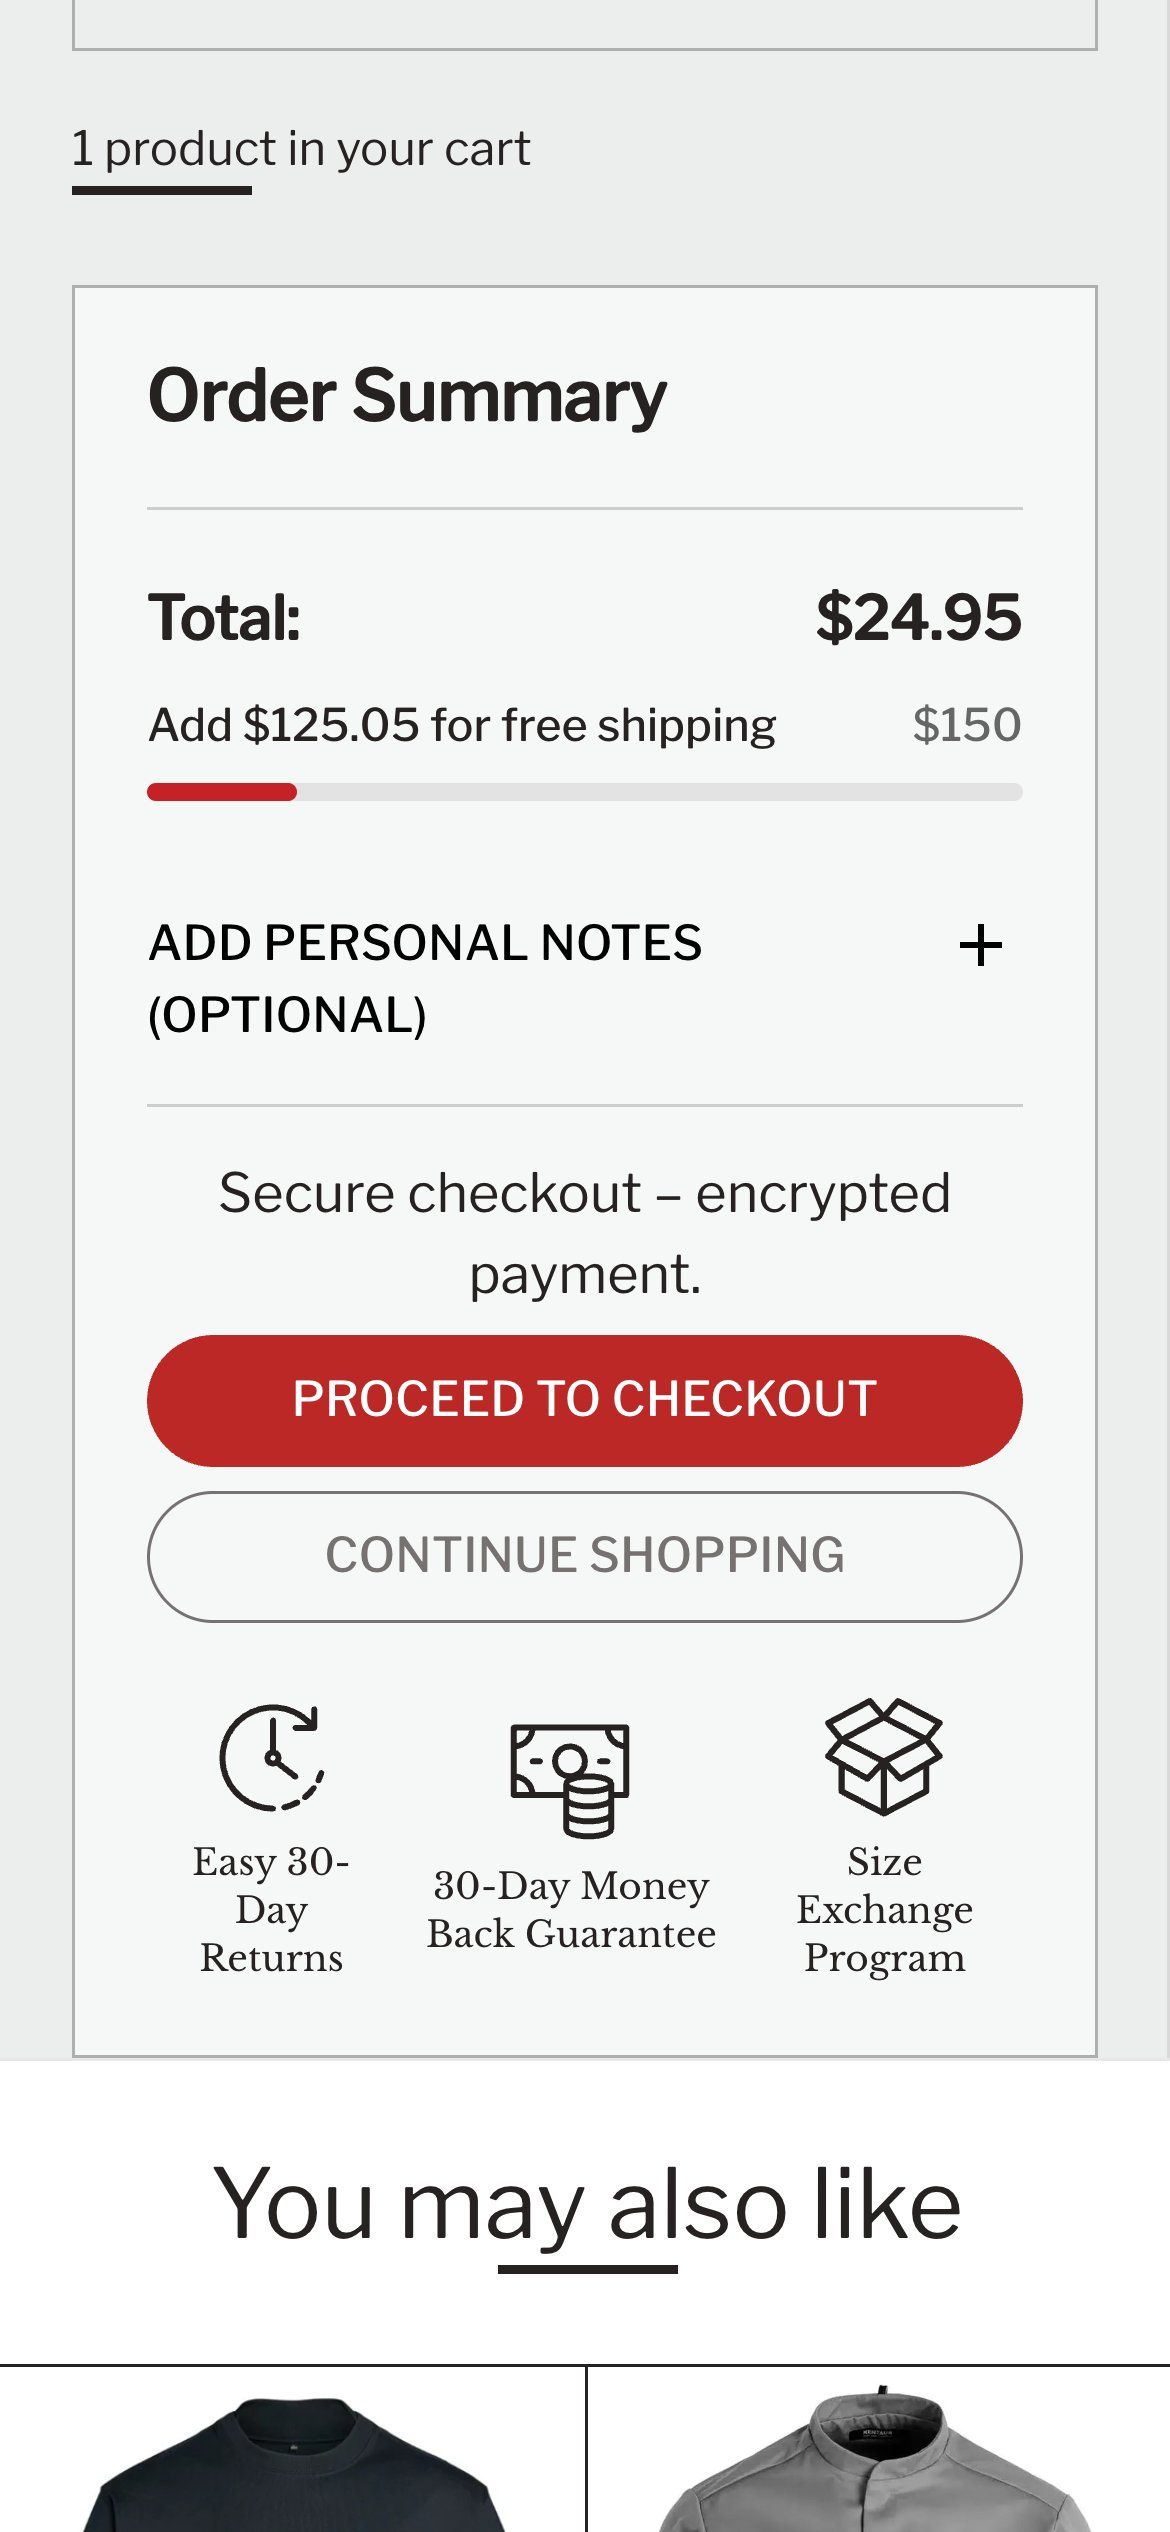
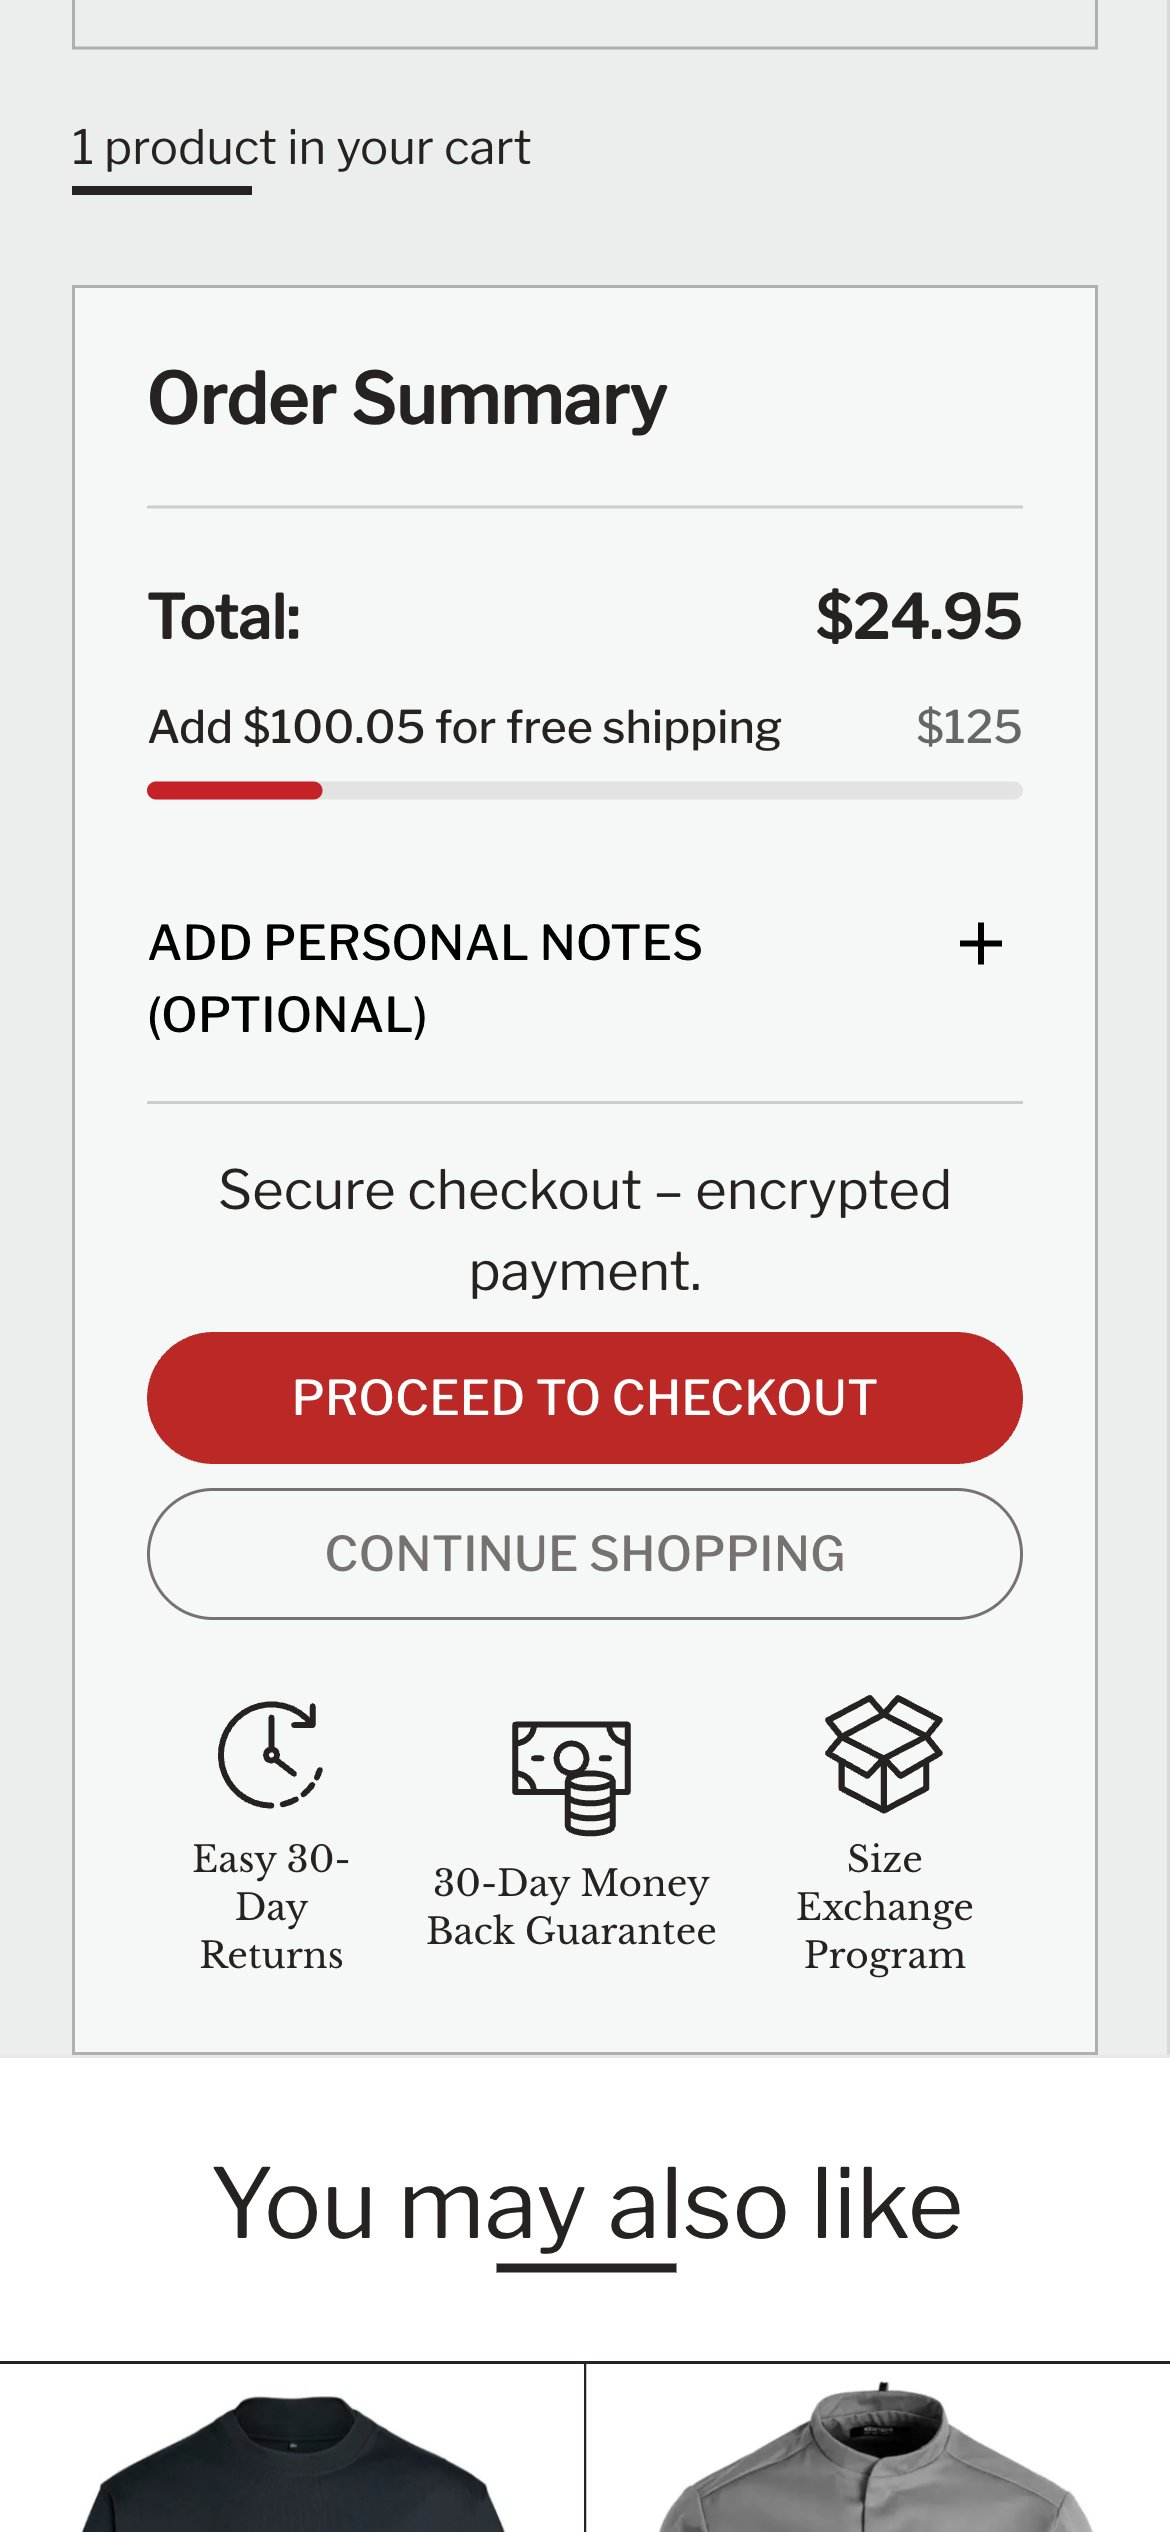
Shipping threshold reasoning, fabric swatch, empty-collection text

diff --git a/index.html b/index.html
@@ -1253,12 +1253,12 @@ a.irow:hover b{text-decoration:underline}
 <section class="slide" id="p-ship"> <img class="silk sm" src="img/silk.png" alt="">
 <div class="shead"><span class="num">06</span><h2><span class="sev imp">Second wave</span>Apparel ships from $10.75, and the cart says nothing about shipping</h2></div>
 <div class="pbody">
-<div class="txt t1"><div class="lbl"><span class="pill">Today</span><svg class="conn" viewBox="0 0 54 12"><path d="M0 6h50M45 1.5 50 6l-5 4.5" fill="none" stroke="#6d6d6d" stroke-width="1.5"/></svg></div><p>Shipping is free only on shoes. For a $24.95 T-shirt the cheapest option at checkout is USPS Ground Advantage at $10.75. The cart shows the total and Proceed to checkout — no shipping line and no free-shipping goal; there is no shipping policy page either.</p><p class="fine-note">Checked live on the U.S. store, iPhone (390×844), 9 Oct 2026. · <a href="https://fiumaraculinary.com/cart" target="_blank" rel="noopener">open the page ↗</a></p></div>
+<div class="txt t1"><div class="lbl"><span class="pill">Today</span><svg class="conn" viewBox="0 0 54 12"><path d="M0 6h50M45 1.5 50 6l-5 4.5" fill="none" stroke="#6d6d6d" stroke-width="1.5"/></svg></div><p>Shipping is free only on shoes. For a $24.95 T-shirt, the cheapest option at checkout is $10.75. The cart does not mention shipping. There is no shipping policy page.</p><p class="fine-note">Checked live on the U.S. store, iPhone (390×844), 9 Oct 2026. · <a href="https://fiumaraculinary.com/cart" target="_blank" rel="noopener">open the page ↗</a></p></div>
 <div class="v1"><div><div class="phone"><div class="screen"><div class="island"></div><div class="sbar"><span>9:41</span><svg viewBox="0 0 24 11"><rect x=".5" y=".5" width="20" height="10" rx="3" fill="none" stroke="#111"/><rect x="2" y="2" width="16" height="7" rx="1.5" fill="#111"/><rect x="21.5" y="3.5" width="1.8" height="4" rx=".9" fill="#111"/></svg></div><div class="view"><img class="shot" src="img/now-ship.jpg" alt=""></div><div class="url"><span>fiumaraculinary.com</span></div></div></div><div class="cap">Today — no shipping line in the cart</div></div></div>
-<div class="txt t2"><div class="lbl"><span class="pill">We propose</span><svg class="conn" viewBox="0 0 54 12"><path d="M0 6h50M45 1.5 50 6l-5 4.5" fill="none" stroke="#6d6d6d" stroke-width="1.5"/></svg></div><p>Set a free-shipping threshold for apparel — $150 in this example — and show the progress in the cart: “Add $125.05 for free shipping”.</p><p>On the right: the same cart with the free-shipping line.</p></div>
+<div class="txt t2"><div class="lbl"><span class="pill">We propose</span><svg class="conn" viewBox="0 0 54 12"><path d="M0 6h50M45 1.5 50 6l-5 4.5" fill="none" stroke="#6d6d6d" stroke-width="1.5"/></svg></div><p>Set free shipping on apparel from $125. Show the progress in the cart: “Add $100.05 for free shipping”.</p><p>Why $125: Happy Chef starts at $95, Chef Works at $99, TILIT and Hedley & Bennett at $150. The middle of these is $124.50. Your median chef coat is $112.45, so one coat is not enough. A coat with an apron or pants is.</p><p>On the right: the same cart with the free-shipping line.</p></div>
 <div class="v2"><div><div class="phone"><div class="screen"><div class="island"></div><div class="sbar"><span>9:41</span><svg viewBox="0 0 24 11"><rect x=".5" y=".5" width="20" height="10" rx="3" fill="none" stroke="#111"/><rect x="2" y="2" width="16" height="7" rx="1.5" fill="#111"/><rect x="21.5" y="3.5" width="1.8" height="4" rx=".9" fill="#111"/></svg></div><div class="view"><img class="shot" src="img/fix-ship.jpg" alt=""></div><div class="url"><span>fiumaraculinary.com</span></div></div></div><div class="cap">The same cart with a free-shipping goal</div></div></div>
 <div class="cardcol"><div class="benefit-top"><span class="pill">Why it pays</span><span class="arrow"><svg width="14" height="16" viewBox="0 0 14 16"><path d="M7 1v13M1.5 8.5 7 14l5.5-5.5" fill="none" stroke="#444" stroke-width="1.6"/></svg></span></div>
-<div class="card"><p>A visible goal turns shipping from a surprise at checkout into a reason to add an apron or a second shirt.</p><div class="stats"><div><b>$10.75</b><span>cheapest shipping on a $24.95 T-shirt</span></div><div><b>4 of 10</b><span>competitors show a free-shipping threshold</span></div></div><p class="comp">Like at <a href="https://www.tilitnyc.com/products/chef-shirt" target="_blank" rel="noopener">TILIT ↗</a> — free shipping over $150 in the bar and on the product page; Fiumara can set its own threshold for apparel.</p></div><div class="ptag"><span>Price</span><b>$60</b><em>3 h &#183; $20/h</em></div></div>
+<div class="card"><p>The shopper sees shipping before checkout. The goal sits just above one coat, so it invites a second item.</p><div class="stats"><div><b>$10.75</b><span>cheapest shipping on a $24.95 T-shirt</span></div><div><b>$124.50</b><span>middle threshold of 4 competitors</span></div></div><p class="comp">Like at <a href="https://www.tilitnyc.com/products/chef-shirt" target="_blank" rel="noopener">TILIT ↗</a> — the $150 goal is in the top bar.</p></div><div class="ptag"><span>Price</span><b>$60</b><em>3 h &#183; $20/h</em></div></div>
 </div></section>
 <section class="slide" id="p-search-empty"> <img class="silk sm" src="img/silk.png" alt="">
 <div class="shead"><span class="num">07</span><h2><span class="sev imp">Second wave</span>A search with no results ends on “Try again with a different keyword”</h2></div>
@@ -1284,12 +1284,12 @@ a.irow:hover b{text-decoration:underline}
 <section class="slide" id="p-swatch"> <img class="silk sm" src="img/silk.png" alt="">
 <div class="shead"><span class="num">09</span><h2><span class="sev low">Small fixes</span>The Houndstooth color swatch is an empty white square</h2></div>
 <div class="pbody">
-<div class="txt t1"><div class="lbl"><span class="pill">Today</span><svg class="conn" viewBox="0 0 54 12"><path d="M0 6h50M45 1.5 50 6l-5 4.5" fill="none" stroke="#6d6d6d" stroke-width="1.5"/></svg></div><p>On the Chef Works Basic Chef Pants, the only color, Houndstooth, shows as a blank square. Plain colors like Olivette or Patriot Blue have swatch images; the patterned one has none, so the theme tries to paint “houndstooth” as a color and shows nothing.</p><p class="fine-note">Checked live on the U.S. store, iPhone (390×844), 9 Oct 2026. · <a href="https://fiumaraculinary.com/products/chef-works-basic-chef-pants" target="_blank" rel="noopener">open the page ↗</a></p></div>
+<div class="txt t1"><div class="lbl"><span class="pill">Today</span><svg class="conn" viewBox="0 0 54 12"><path d="M0 6h50M45 1.5 50 6l-5 4.5" fill="none" stroke="#6d6d6d" stroke-width="1.5"/></svg></div><p>On the Chef Works Basic Chef Pants, the only color is Houndstooth. Its swatch is an empty white square. Plain colors like Olivette have swatch images. This pattern has none.</p><p class="fine-note">Checked live on the U.S. store, iPhone (390×844), 9 Oct 2026. · <a href="https://fiumaraculinary.com/products/chef-works-basic-chef-pants" target="_blank" rel="noopener">open the page ↗</a></p></div>
 <div class="v1"><div><div class="phone"><div class="screen"><div class="island"></div><div class="sbar"><span>9:41</span><svg viewBox="0 0 24 11"><rect x=".5" y=".5" width="20" height="10" rx="3" fill="none" stroke="#111"/><rect x="2" y="2" width="16" height="7" rx="1.5" fill="#111"/><rect x="21.5" y="3.5" width="1.8" height="4" rx=".9" fill="#111"/></svg></div><div class="view"><img class="shot" src="img/now-swatch.jpg" alt=""></div><div class="url"><span>fiumaraculinary.com</span></div></div></div><div class="cap">Today — a blank swatch</div></div></div>
-<div class="txt t2"><div class="lbl"><span class="pill">We propose</span><svg class="conn" viewBox="0 0 54 12"><path d="M0 6h50M45 1.5 50 6l-5 4.5" fill="none" stroke="#6d6d6d" stroke-width="1.5"/></svg></div><p>Add swatch images for the patterned colors, starting with Houndstooth.</p><p>On the right: the same page with the fabric in the swatch.</p></div>
+<div class="txt t2"><div class="lbl"><span class="pill">We propose</span><svg class="conn" viewBox="0 0 54 12"><path d="M0 6h50M45 1.5 50 6l-5 4.5" fill="none" stroke="#6d6d6d" stroke-width="1.5"/></svg></div><p>Use a crop of the real fabric from the product photo as the swatch. Do the same for other patterned colors.</p><p>On the right: the same page with the fabric in the swatch.</p></div>
 <div class="v2"><div><div class="phone"><div class="screen"><div class="island"></div><div class="sbar"><span>9:41</span><svg viewBox="0 0 24 11"><rect x=".5" y=".5" width="20" height="10" rx="3" fill="none" stroke="#111"/><rect x="2" y="2" width="16" height="7" rx="1.5" fill="#111"/><rect x="21.5" y="3.5" width="1.8" height="4" rx=".9" fill="#111"/></svg></div><div class="view"><img class="shot" src="img/fix-swatch.jpg" alt=""></div><div class="url"><span>fiumaraculinary.com</span></div></div></div><div class="cap">The same swatch with the fabric</div></div></div>
 <div class="cardcol"><div class="benefit-top"><span class="pill">Why it pays</span><span class="arrow"><svg width="14" height="16" viewBox="0 0 14 16"><path d="M7 1v13M1.5 8.5 7 14l5.5-5.5" fill="none" stroke="#444" stroke-width="1.6"/></svg></span></div>
-<div class="card"><p>A pattern is the one color a shopper cannot guess from its name; the swatch should show it.</p><div class="stats"><div><b>1</b><span>color on this product, shown blank</span></div><div><b>4</b><span>swatch images already made for plain colors</span></div></div><p class="comp">Like at <a href="https://happychef.com/signature-v2-lightweight-chef-coat.html?color=1793" target="_blank" rel="noopener">Happy Chef ↗</a> — every color circle is a photo of the coat in that color.</p></div><div class="ptag"><span>Price</span><b>$20</b><em>1 h &#183; $20/h</em></div></div>
+<div class="card"><p>A pattern cannot be guessed from its name. The swatch should show it.</p><div class="stats"><div><b>1</b><span>color on this product, shown blank</span></div><div><b>4</b><span>swatch images already made for plain colors</span></div></div><p class="comp">Like at <a href="https://happychef.com/signature-v2-lightweight-chef-coat.html?color=1793" target="_blank" rel="noopener">Happy Chef ↗</a> — every color circle is a photo of the coat in that color.</p></div><div class="ptag"><span>Price</span><b>$20</b><em>1 h &#183; $20/h</em></div></div>
 </div></section>
 <section class="slide" id="p-sizeadd"> <img class="silk sm" src="img/silk.png" alt="">
 <div class="shead"><span class="num">10</span><h2><span class="sev low">Small fixes</span>Size buttons squeeze the surcharge into three lines: “2XL (Add $4)”</h2></div>
@@ -1314,12 +1314,12 @@ a.irow:hover b{text-decoration:underline}
 <section class="slide" id="p-emptycol"> <img class="silk sm" src="img/silk.png" alt="">
 <div class="shead"><span class="num">12</span><h2><span class="sev low">Small fixes</span>Three collections are empty, and all three are in your sitemap</h2></div>
 <div class="pbody">
-<div class="txt t1"><div class="lbl"><span class="pill">Today</span><svg class="conn" viewBox="0 0 54 12"><path d="M0 6h50M45 1.5 50 6l-5 4.5" fill="none" stroke="#6d6d6d" stroke-width="1.5"/></svg></div><p>Face Masks, a second Face Masks and “Check Out Maven’s New Scrub Tops. Shop Now!” open with “There are currently no products in this collection.” All three are listed in the sitemap, so search engines can still send people there.</p><p class="fine-note">Checked live on the U.S. store, iPhone (390×844), 9 Oct 2026. · <a href="https://fiumaraculinary.com/collections/face-masks" target="_blank" rel="noopener">open the page ↗</a></p></div>
+<div class="txt t1"><div class="lbl"><span class="pill">Today</span><svg class="conn" viewBox="0 0 54 12"><path d="M0 6h50M45 1.5 50 6l-5 4.5" fill="none" stroke="#6d6d6d" stroke-width="1.5"/></svg></div><p>Three collections are empty: two Face Masks pages and “Check Out Maven’s New Scrub Tops. Shop Now!”. They show “There are currently no products in this collection.” All three are in your sitemap, so Google can still send people there.</p><p class="fine-note">Checked live on the U.S. store, iPhone (390×844), 9 Oct 2026. · <a href="https://fiumaraculinary.com/collections/face-masks" target="_blank" rel="noopener">open the page ↗</a></p></div>
 <div class="v1"><div><div class="phone"><div class="screen"><div class="island"></div><div class="sbar"><span>9:41</span><svg viewBox="0 0 24 11"><rect x=".5" y=".5" width="20" height="10" rx="3" fill="none" stroke="#111"/><rect x="2" y="2" width="16" height="7" rx="1.5" fill="#111"/><rect x="21.5" y="3.5" width="1.8" height="4" rx=".9" fill="#111"/></svg></div><div class="view"><img class="shot" src="img/now-emptycol.jpg" alt=""></div><div class="url"><span>fiumaraculinary.com</span></div></div></div><div class="cap">Today — an empty collection</div></div></div>
-<div class="txt t2"><div class="lbl"><span class="pill">We propose</span><svg class="conn" viewBox="0 0 54 12"><path d="M0 6h50M45 1.5 50 6l-5 4.5" fill="none" stroke="#6d6d6d" stroke-width="1.5"/></svg></div><p>Remove the three empty collections from the store and redirect their links; where a page has to stay, show the main categories instead of an empty grid.</p><p>On the right: the same page with links to the main categories.</p></div>
+<div class="txt t2"><div class="lbl"><span class="pill">We propose</span><svg class="conn" viewBox="0 0 54 12"><path d="M0 6h50M45 1.5 50 6l-5 4.5" fill="none" stroke="#6d6d6d" stroke-width="1.5"/></svg></div><p>Show your main categories on an empty collection page. Then a visitor always has a next step.</p><p>On the right: the same page with four category links.</p></div>
 <div class="v2"><div><div class="phone"><div class="screen"><div class="island"></div><div class="sbar"><span>9:41</span><svg viewBox="0 0 24 11"><rect x=".5" y=".5" width="20" height="10" rx="3" fill="none" stroke="#111"/><rect x="2" y="2" width="16" height="7" rx="1.5" fill="#111"/><rect x="21.5" y="3.5" width="1.8" height="4" rx=".9" fill="#111"/></svg></div><div class="view"><img class="shot" src="img/fix-emptycol.jpg" alt=""></div><div class="url"><span>fiumaraculinary.com</span></div></div></div><div class="cap">The same page with a way on</div></div></div>
 <div class="cardcol"><div class="benefit-top"><span class="pill">Why it pays</span><span class="arrow"><svg width="14" height="16" viewBox="0 0 14 16"><path d="M7 1v13M1.5 8.5 7 14l5.5-5.5" fill="none" stroke="#444" stroke-width="1.6"/></svg></span></div>
-<div class="card"><p>A visitor from search lands on a page with somewhere to go, not on an empty grid.</p><div class="stats"><div><b>3</b><span>empty collections</span></div><div><b>41</b><span>collections in the sitemap</span></div></div></div><div class="ptag"><span>Price</span><b>$10</b><em>0.5 h &#183; $20/h</em></div></div>
+<div class="card"><p>A visitor from Google lands on a page with a way forward, not a dead end.</p><div class="stats"><div><b>3</b><span>empty collections</span></div><div><b>41</b><span>collections in the sitemap</span></div></div></div><div class="ptag"><span>Price</span><b>$10</b><em>0.5 h &#183; $20/h</em></div></div>
 </div></section>
 <section class="slide" id="p-cartsize"> <img class="silk sm" src="img/silk.png" alt="">
 <div class="shead"><span class="num">13</span><h2><span class="sev low">Small fixes</span>In the cart the clog size is cut off: “EU 37/ US LADI…”</h2></div>
